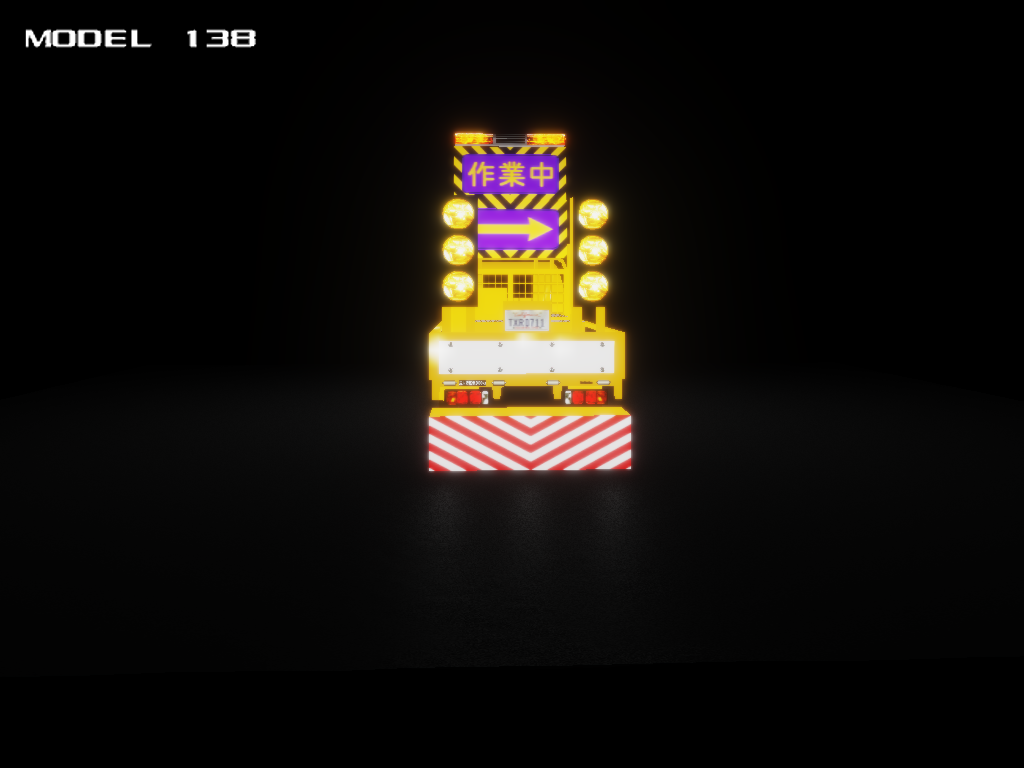
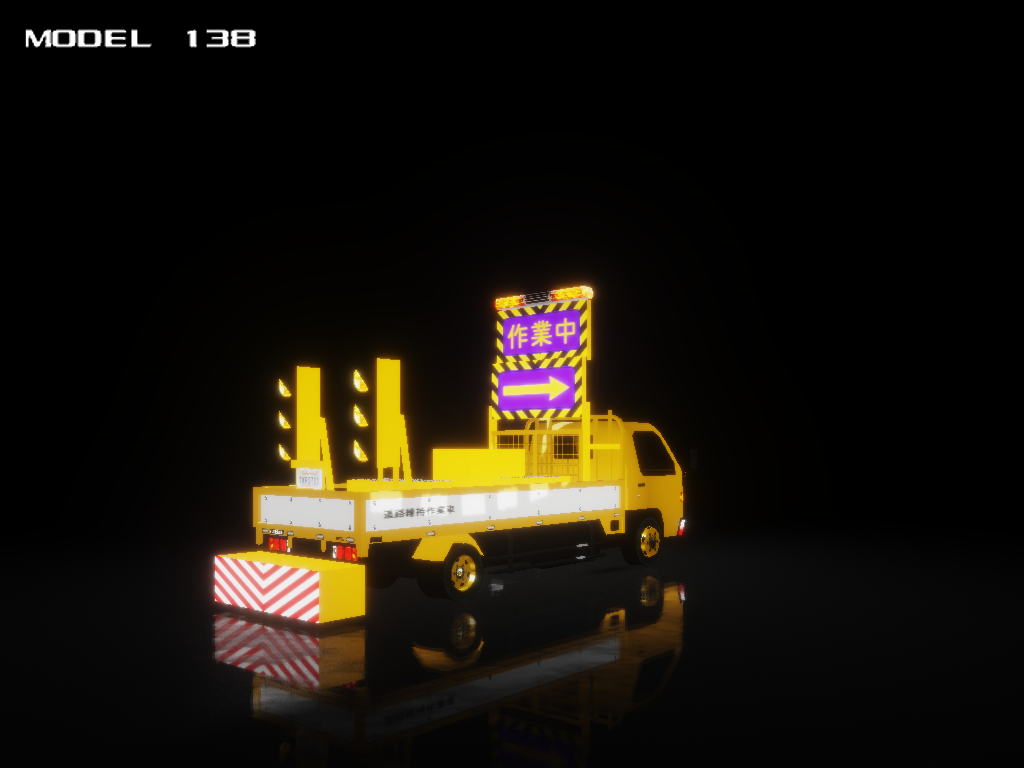
Improve roadworks lorry documentation image

Changed region(s): [[0.1875, 0.1562, 0.6875, 0.9375]]

diff --git a/cars/138.md b/cars/138.md
@@ -16,9 +16,9 @@ help: View the original factory specifications.
 **Record group:** Playable Class T traffic model in the native port; unlock it through its traffic challenge, then buy it from the Class T dealer. The original game did not offer traffic vehicles for purchase.
 
 
-![Native port viewer rear view of car 138]({{ "/assets/cars/car-138.png" | relative_url }})
+![Native port viewer three-quarter view of car 138]({{ "/assets/cars/car-138.png" | relative_url }})
 
-*Native port viewer capture, rear view. The displayed appearance and viewer lighting may differ from the original game.*
+*Native port viewer capture, three-quarter view. The displayed appearance and viewer lighting may differ from the original game.*
 
 ## Factory specifications
 
